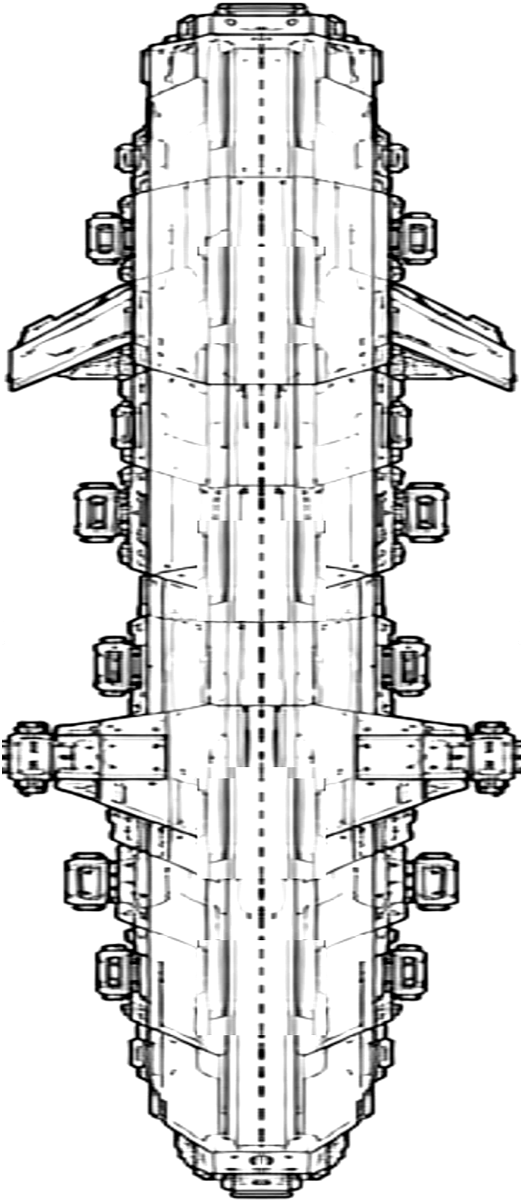
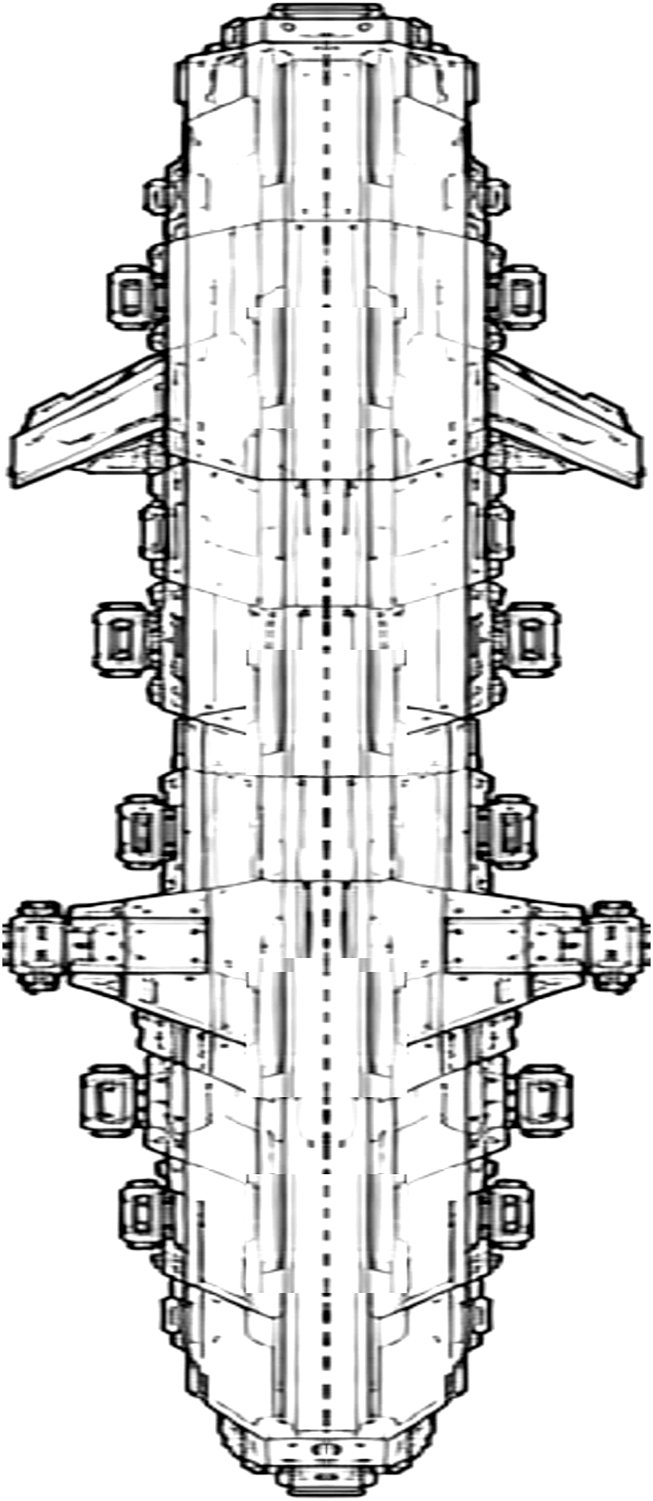
Checkpoint: battleship 378 u, carrier 283.5, destroyer 212.6; the carrier's engine 8 u in -- untested

diff --git a/scripts/PlayerShip.cs b/scripts/PlayerShip.cs
@@ -92,6 +92,7 @@ public partial class PlayerShip : Node2D, IHittable, IRaidTarget
         // from the keel, the centre of each row, the spacing along it. They lift off at the
         // runway's bow end, RunwayBow ahead of the centre, and land on its centre (world units).
         public float BayX, BayY, BaySpacing, RunwayBow;
+        public float EngineInset;          // the engine's plume this far in from the stern (world units)
     }
 
     // Every hull is the owner's line art (tools/make_ships.ps1: symmetrical, grey, tinted here with
@@ -100,32 +101,33 @@ public partial class PlayerShip : Node2D, IHittable, IRaidTarget
     // defence 6 u across, the muzzle 5.5 u out. Each class mounts them at its own multiple of that.
     public static readonly Dictionary<ShipClass, ClassArt> Art = new()
     {
-        // Battleship, 302.4 u: the drawing made twice as wide, then 35% larger (the owner's), so 62 u
-        // across the hull (pods and fins outboard of it). Its four main turrets stand where the
-        // drawing's four painted turrets did, on the spine, at 2x -- the drawing's own turret-to-hull
-        // proportion on the doubled beam; its two point-defence turrets are on the stern quarters.
+        // Battleship, 378 u -- by far the largest: the drawing made twice as wide, then 35% and 25%
+        // larger (the owner's), so 77 u across the hull (pods and fins outboard of it). Its four main
+        // turrets stand where the drawing's four painted turrets did, on the spine, at 2.5x -- the
+        // drawing's own turret-to-hull proportion; its two point-defence turrets on the stern quarters.
         [ShipClass.Battleship] = new ClassArt {
-            Texture = "res://battleship_hull.png", Length = 302.4f, HalfWidth = 35.1f,
-            Mains = new Vector2[] { new(0f, -74.95f), new(0f, -6.01f), new(0f, 58.62f), new(0f, 97.61f) },
-            Pds   = new Vector2[] { new(-17.02f, 125.4f), new(17.02f, 125.4f) },
-            TurretTexScale = 2f / 5.5f, MainBarrel = 24.4f, PdBarrel = 11f, PdRing = 6f },
-        // Carrier, 297.5 u (the drawing at 170 u, 75% larger): the runway down its centre, 30.4 u
-        // wide, with the white deck either side of it (15.4 to 37.8 u out) where the bombers park,
-        // three sponsons outboard on each flank. Point defence on the two middle sponsons and on the
-        // stern block (the bow is where a bomber lifting off passes), at 2.01x.
+            Texture = "res://battleship_hull.png", Length = 378f, HalfWidth = 43.875f,
+            Mains = new Vector2[] { new(0f, -93.85f), new(0f, -7.56f), new(0f, 73.34f), new(0f, 122.15f) },
+            Pds   = new Vector2[] { new(-21.3f, 156.93f), new(21.3f, 156.93f) },
+            TurretTexScale = 2.5f / 5.5f, MainBarrel = 30.5f, PdBarrel = 13.75f, PdRing = 7.5f },
+        // Carrier, 283.5 u, 25% smaller than the battleship: the runway down its centre, 29 u wide,
+        // with the white deck either side of it (14.7 to 36 u out) where the bombers park, three
+        // sponsons outboard on each flank. Point defence on the two middle sponsons and on the stern
+        // block (the bow is where a bomber lifting off passes), at 1.92x. Its engine sits 8 u in
+        // from the stern block's end.
         [ShipClass.Carrier] = new ClassArt {
-            Texture = "res://carrier_player.png", Length = 297.5f, HalfWidth = 42f,
-            BayX = 26.25f, BayY = 8.75f, BaySpacing = 49f, RunwayBow = 115.5f,
-            Pds = new Vector2[] { new(-48.69f, -31.22f), new(48.69f, -31.22f), new(0f, 140.88f) },
-            TurretTexScale = 2.0125f / 5.5f, PdBarrel = 11.03f, PdRing = 6.04f },
-        // Destroyer, 227.5 u (the drawing at 130 u, 75% larger) -- still the smallest of the three --
-        // and 58 u across the hull. Its two main turrets on the fore spine and the central plate, its
-        // point defence on the stern quarters; the turrets at 1.4x.
+            Texture = "res://carrier_player.png", Length = 283.5f, HalfWidth = 40.02f,
+            BayX = 25.01f, BayY = 8.34f, BaySpacing = 46.69f, RunwayBow = 110.06f, EngineInset = 8f,
+            Pds = new Vector2[] { new(-46.39f, -29.75f), new(46.39f, -29.75f), new(0f, 134.22f) },
+            TurretTexScale = 1.9178f / 5.5f, PdBarrel = 10.51f, PdRing = 5.76f },
+        // Destroyer, 212.625 u, 25% smaller than the carrier -- the smallest of the three -- and 55 u
+        // across the hull. Its two main turrets on the fore spine and the central plate, its point
+        // defence on the stern quarters; the turrets at 1.31x.
         [ShipClass.Destroyer] = new ClassArt {
-            Texture = "res://destroyer_hull.png", Length = 227.5f, HalfWidth = 29.75f,
-            Mains = new Vector2[] { new(0f, -61.15f), new(0f, 26.43f) },
-            Pds   = new Vector2[] { new(-14.3f, 72.9f), new(14.3f, 72.9f) },
-            TurretTexScale = 1.4f / 5.5f, MainBarrel = 17.15f, PdBarrel = 7.7f, PdRing = 4.2f },
+            Texture = "res://destroyer_hull.png", Length = 212.625f, HalfWidth = 27.8f,
+            Mains = new Vector2[] { new(0f, -57.31f), new(0f, 24.66f) },
+            Pds   = new Vector2[] { new(-13.39f, 68.16f), new(13.39f, 68.16f) },
+            TurretTexScale = 1.3085f / 5.5f, MainBarrel = 16.03f, PdBarrel = 7.2f, PdRing = 3.93f },
     };
 
     public ClassArt MyArt => Art[Class];
@@ -902,7 +904,7 @@ public partial class PlayerShip : Node2D, IHittable, IRaidTarget
         }
         // engine plumes at the stern, in the accent colour
         if (Alive)
-            Plume.Draw(this, new Vector2(0, MyArt.Length * 0.5f), Vector2.Down, MyArt.Length, Accent,
+            Plume.Draw(this, new Vector2(0, MyArt.Length * 0.5f - MyArt.EngineInset), Vector2.Down, MyArt.Length, Accent,
                        0.25f + 0.75f * Mathf.Abs(SpeedAhead) / (float)Stats["max_speed"], Thrusting || Mathf.Abs(SpeedAhead) > 2f);
         foreach (var (p, t) in _signals)
         {

diff --git a/scripts/ShipClasses.cs b/scripts/ShipClasses.cs
@@ -290,8 +290,8 @@ public partial class Wing : Node2D
     // grows to full size as it lifts, on the hauler's curve (Altitude). Every deck move runs in the
     // carrier's frame on its own clock, so a moving or turning carrier carries it exactly, and a
     // landing always ends: it is timed, not steered.
-    public const float LandedScale = 0.65f;         // the hauler's own: parked, 18 u across, inside the 22.4 u of white beside the runway
-    public const double LiftTime = 1.6, LandTime = 1.0, TaxiTime = 0.6;   // (the lift's run up 124 u of runway ends at about its top speed)
+    public const float LandedScale = 0.65f;         // the hauler's own: parked, 18 u across, inside the 21.3 u of white beside the runway
+    public const double LiftTime = 1.6, LandTime = 1.0, TaxiTime = 0.6;   // (the lift's run up 118 u of runway ends at about its top speed)
     private const double RollOut = 0.25;            // the share of a lift spent rolling out onto the runway
     private const float TouchRadius = 10f;          // over the carrier's centre within this, a bomber sets down
     private enum BSt { Docked, Lifting, Approach, Aim, Launch, Return, Landing, Taxiing }

diff --git a/scripts/CharacterCreator.cs b/scripts/CharacterCreator.cs
@@ -195,7 +195,7 @@ public partial class ShipPreview : Control
         var c = Vector2.Zero;
         var drawSize = worldSize * k;
         // the accent lights the engines: a plume at the stern shows the choice
-        Plume.Draw(this, c + new Vector2(0, drawSize.Y * 0.5f), Vector2.Down, drawSize.Y, Accent, 0.8f, false);
+        Plume.Draw(this, c + new Vector2(0, drawSize.Y * 0.5f - art.EngineInset * k), Vector2.Down, drawSize.Y, Accent, 0.8f, false);
         DrawTextureRect(tex, new Rect2(c - drawSize * 0.5f, drawSize), false, Main);
 
         // turrets: the same sprites the game turns, in the accent colour as Turret draws them

diff --git a/docs/CHANGES.md b/docs/CHANGES.md
@@ -190,10 +190,12 @@ reachable, which is fine: both harnesses build from the `nupkgs` folder that shi
 ### Open questions — built as a guess, awaiting confirmation
 
 From the line-art batch (the WarShips_Version_L fork):
-- **"75% larger in total" was read as every dimension x1.75** (the carrier 297.5 u, the destroyer 227.5 u),
-  and the battleship's "twice as wide, then 35% larger" as width x2.7 and length x1.35. Its turrets were
-  made 2x, not 1.35x, to keep the drawing's turret-to-hull proportion on the doubled beam. Parked
-  bombers went from 40% to 65% to fill the bigger deck.
+- **"25% larger / smaller" was read as every dimension** (lengths 378, 283.5, 212.6 u). The battleship's
+  turrets are 2.5x, not scaled with the rest alone, to keep the drawing's turret-to-hull proportion on the
+  doubled beam. Parked bombers are 65% to fill the bigger deck.
+- **The sprites are as sharp as the drawings allow**: they are small (250-600 px), so they are enlarged,
+  sharpened and cleaned but not redrawn. A clean-line redraw was tried and made fine detail blotchy.
+  Larger source drawings would make sharper ships.
 - **Turrets wear the accent colour** (white by default), not the hull's -- the accent was already named
   "turrets, engines, trim", and on the line art a turret in the hull colour disappears into it.
 - **Point defence "on the back"** is the stern quarters on the battleship and the destroyer; the carrier's
@@ -302,13 +304,13 @@ From the 2026-09-21 batch (each is a constant or one rule to change):
 
 ### Bigger ships, grey and white (2026-09-22, in the WarShips_Version_L fork)
 
-- **The battleship is its drawing made twice as wide, then 35% larger**: 302.4 u (224 x 1.35) and 62 u
-  across the hull, a 35.1 u half-beam (13 x 2 x 1.35). Its turrets are **2x** -- the drawing's own
-  turret-to-hull proportion on the doubled beam -- rather than 1.35x.
-- **The carrier and the destroyer are 75% larger**, every dimension: the carrier 297.5 u (170 x 1.75), a
-  42 u half-beam; the destroyer 227.5 u (130 x 1.75), a 29.75 u half-beam, still the smallest of the
-  three. Their mounts, the carrier's bays and runway, and their turrets scale with them. The hulls are
-  drawn at 4 px a unit at their new sizes (`tools/make_ships.ps1`).
+- **The battleship is by far the largest**: its drawing twice as wide, then 35% and 25% larger -- 378 u,
+  a 43.875 u half-beam, its turrets 2.5x (the drawing's own turret-to-hull proportion on the doubled
+  beam).
+- **The carrier is 25% smaller than the battleship** (283.5 u, a 40 u half-beam) and **the destroyer 25%
+  smaller than the carrier** (212.6 u, a 27.8 u half-beam). Their mounts, the carrier's bays and runway,
+  and their turrets scale with them. The hulls are drawn at 4 px a unit at their sizes
+  (`tools/make_ships.ps1`). The carrier's engine plume sits 8 u in from its stern (`ClassArt.EngineInset`).
 - **Bombers park at 65% on the bigger deck** (the hauler's own landed size, and what fits the 22.4 u of
   white beside the runway), and lift off over 1.6 s: the run up 124 u of runway ends about at their
   top speed.

diff --git a/docs/DESIGN.md b/docs/DESIGN.md
@@ -411,9 +411,9 @@ chosen in the creator only** — there are no class hotkeys (the developer remov
 
 | | Hull | Length | Top speed | Main guns | Its F | PD turrets | Wing | Sprite |
 |---|---|---|---|---|---|---|---|---|
-| **Battleship** | 300 | 302.4 u | 104 u/s | 4, 5.9 a shell | broadside | 2 (slow, τ/3) | — | `battleship_hull.png` |
-| **Carrier** | 200 | 297.5 u | 116.48 u/s | — | bomber strike | 3 (fast, τ/1.2) | 3 fighters + 2 bombers | `carrier_player.png` |
-| **Destroyer** | 250 | 227.5 u | 130 u/s | 2, 5.9 a shell | missile burst | 2 (slow, τ/3) | — | `destroyer_hull.png` |
+| **Battleship** | 300 | 378 u | 104 u/s | 4, 5.9 a shell | broadside | 2 (slow, τ/3) | — | `battleship_hull.png` |
+| **Carrier** | 200 | 283.5 u | 116.48 u/s | — | bomber strike | 3 (fast, τ/1.2) | 3 fighters + 2 bombers | `carrier_player.png` |
+| **Destroyer** | 250 | 212.6 u | 130 u/s | 2, 5.9 a shell | missile burst | 2 (slow, τ/3) | — | `destroyer_hull.png` |
 
 **Damage**: main gun 5.9 a shell, one a second per barrel · PD 0.5 every 0.5 s per turret · fighter 2
 every 0.35 s · torpedo 15 · missile 5 (three to a burst). Every number lives in **`ShipStats`**
@@ -428,9 +428,9 @@ each group of rows only for the classes that carry it (a row a class lacks reads
 figure is one `V(battleship, carrier, destroyer)`. A fourth class is a line in each of those, not a hunt
 for two-way tests.
 
-**Sizes are the owner's.** The battleship is its drawing twice as wide, then 35% larger: 302.4 u and a
-35.1 u half-beam. The carrier (297.5 u) and the destroyer (227.5 u) are their drawings 75% larger, the
-destroyer still the smallest. The hit capsule is the drawn hull. New ships spawn half the longest
+**Sizes are the owner's.** The battleship, by far the largest, is its drawing twice as wide, then 35%
+and 25% larger: 378 u and a 43.875 u half-beam. The carrier is 25% smaller (283.5 u) and the destroyer
+25% smaller again (212.6 u). The hit capsule is the drawn hull. New ships spawn half the longest
 class below the pad (`Hub.SpawnClear`), so any class starts clear of the base.
 
 ### The helm: capital ships handle like naval ships
